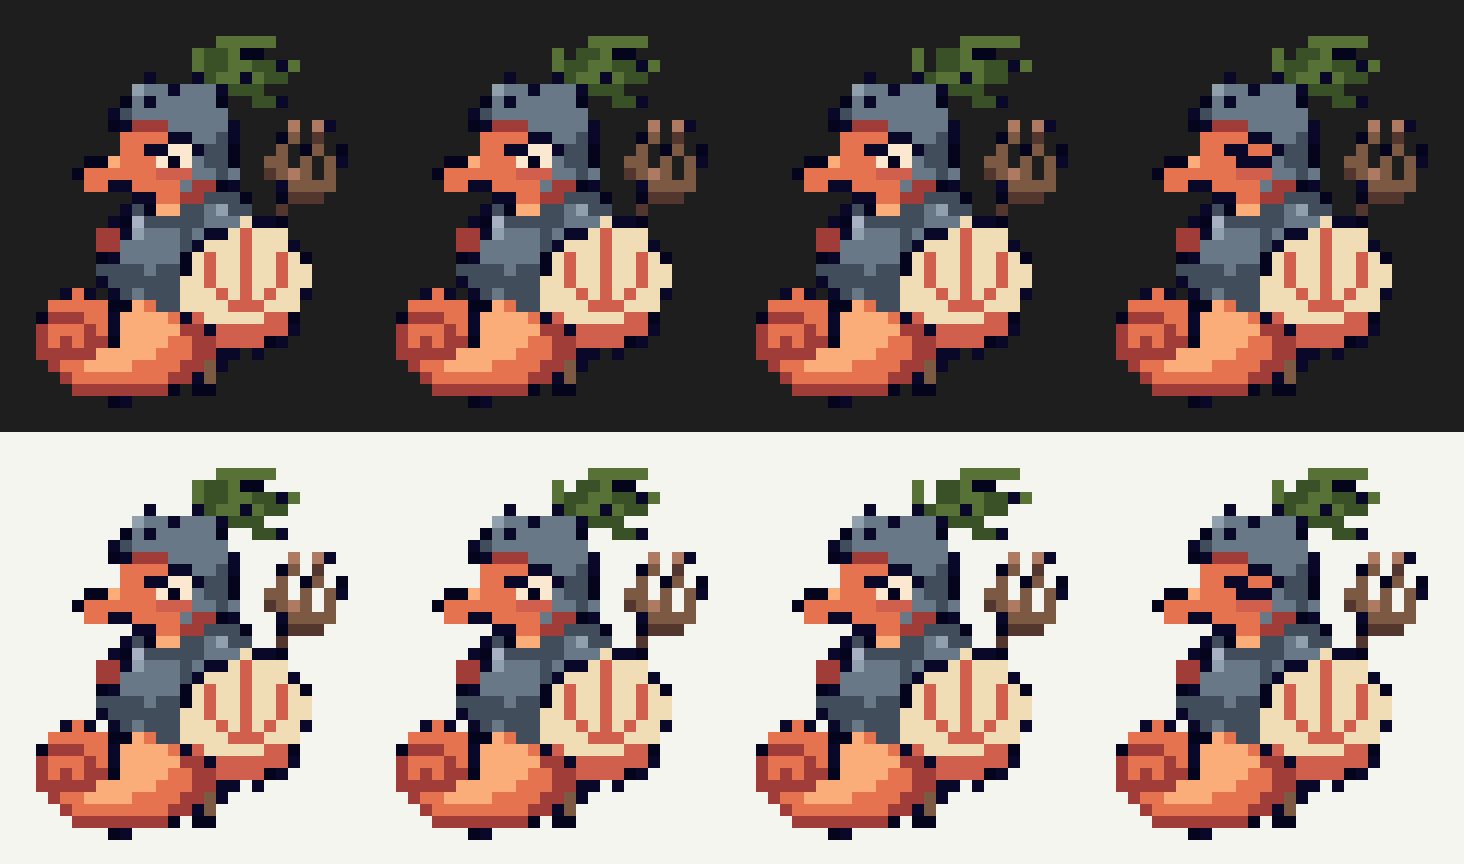
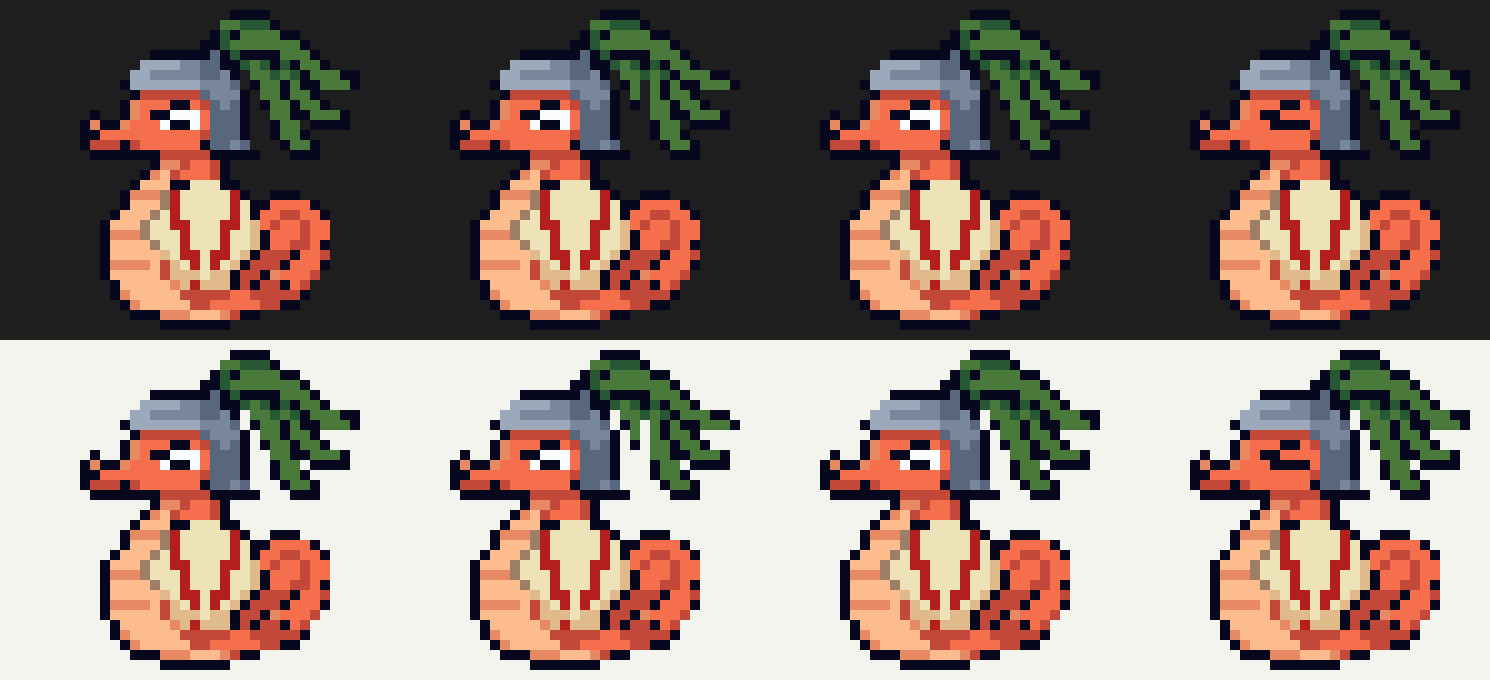
P5-21: redraw Sir Kelpsie as a waist-up close-up
New reference from @victor-aguilars; 36x32, 15 colours. Trident dropped,
dark pupil and shield rim hand-fixed, same 2 fps idle (plume sway, blink).

diff --git a/plugin/content/CREDITS.md b/plugin/content/CREDITS.md
@@ -36,7 +36,7 @@ noted (decision 0011). Add a row whenever you add or change an asset.
 | `modsters/pinekin/sprite.png` | @danielpg95 (drawn with Claude Code) | CC BY 4.0 | P5-19 |
 | `modsters/hollowmask/sprite.png` | @danielpg95 (drawn with Claude Code) | CC BY 4.0 | P5-19 |
 | `modsters/musketail/sprite.png` | @danielpg95 (drawn with Claude Code) | CC BY 4.0 | P5-19 |
-| `modsters/sir-kelpsie/sprite.png` | @victor-aguilars (drawn with Claude Code) | CC BY 4.0 | Sir Kelpsie, from @victor-aguilars' reference; eye, shield ridges, tail curl and plume wave are hand-drawn |
+| `modsters/sir-kelpsie/sprite.png` | @victor-aguilars (drawn with Claude Code) | CC BY 4.0 | Sir Kelpsie, a waist-up close-up from @victor-aguilars' reference (redrawn 2026-10-22); pupil, shield ridges and rim, and plume sway are hand-drawn |
 | `modsters/peekashell/sprite.png` | @victor-aguilars (drawn with Claude Code) | CC BY 4.0 | Peekashell, from @victor-aguilars' reference; the pupil, barnacles and shell swing are hand-drawn |
 | `biomes/whispering-forest/background.png` | @danielpg95 (drawn with Claude Code) | CC BY 4.0 | Idle scene (decision 0026) |
 | `biomes/saltbreeze-bay/background.png` | @danielpg95 (drawn with Claude Code) | CC BY 4.0 | Idle scene (decision 0026) |

diff --git a/docs/WORKBOARD.md b/docs/WORKBOARD.md
@@ -16,7 +16,7 @@ this file lists only tasks someone has claimed.
 | Task | Owner | Status | Branch | Started | Updated | Next step |
 | --- | --- | --- | --- | --- | --- | --- |
 | P5-19 | @danielpg95 | in-review | p5-19-forest-roster | 2026-10-14 | 2026-10-16 | Check the forest live with `/modsters hunt`, then merge PR #112 |
-| P5-21 | @victor-aguilars | in-progress | p5-21-saltbreeze-roster | 2026-10-14 | 2026-10-16 | Pick a concept for the second common (#033); Peekashell and Sir Kelpsie are in the partial PR |
+| P5-21 | @victor-aguilars | in-progress | p5-21-kelpsie-closeup | 2026-10-14 | 2026-10-22 | Sir Kelpsie redrawn as a close-up; design the buff plankton Modster for the open common slot (#033) |
 | P5-34 | @victor-aguilars | in-progress | p5-34-readme-install | 2026-10-22 | 2026-10-22 | Hand check on a second computer: fresh install of 0.1.0 from the marketplace, then tick the items (README merged in #149) |
 | P5-36 | @victor-aguilars | in-review | p5-36-in-game-settings | 2026-10-22 | 2026-10-22 | Merge #155, #156, then the P5-36 PR; then close the task |
 
